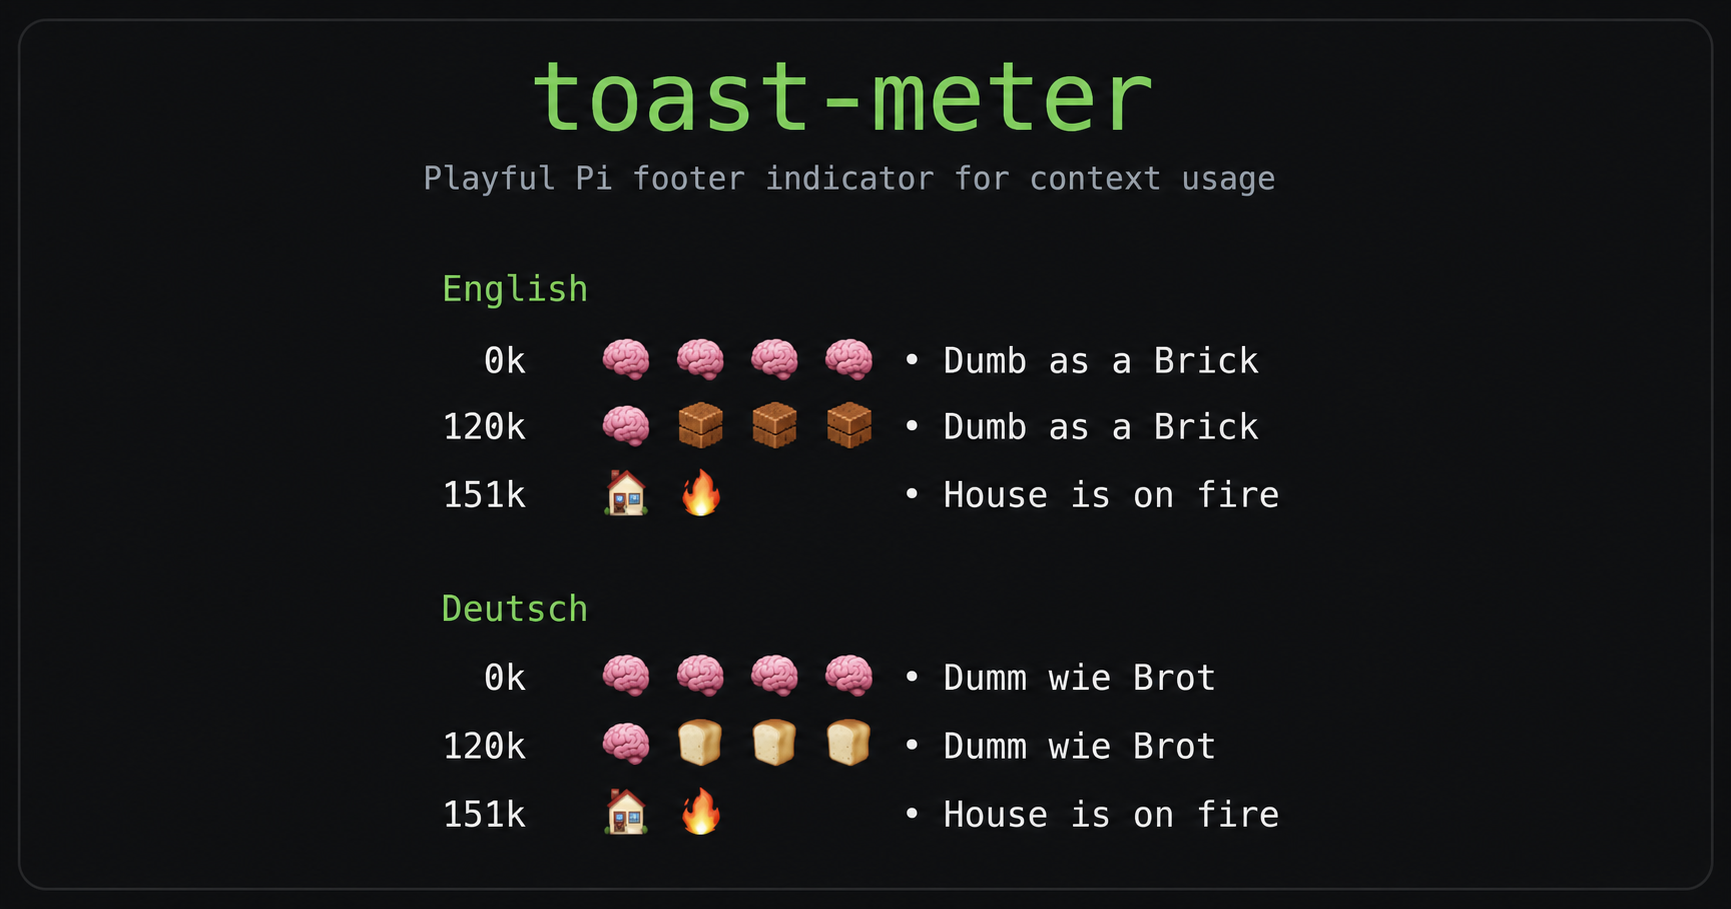
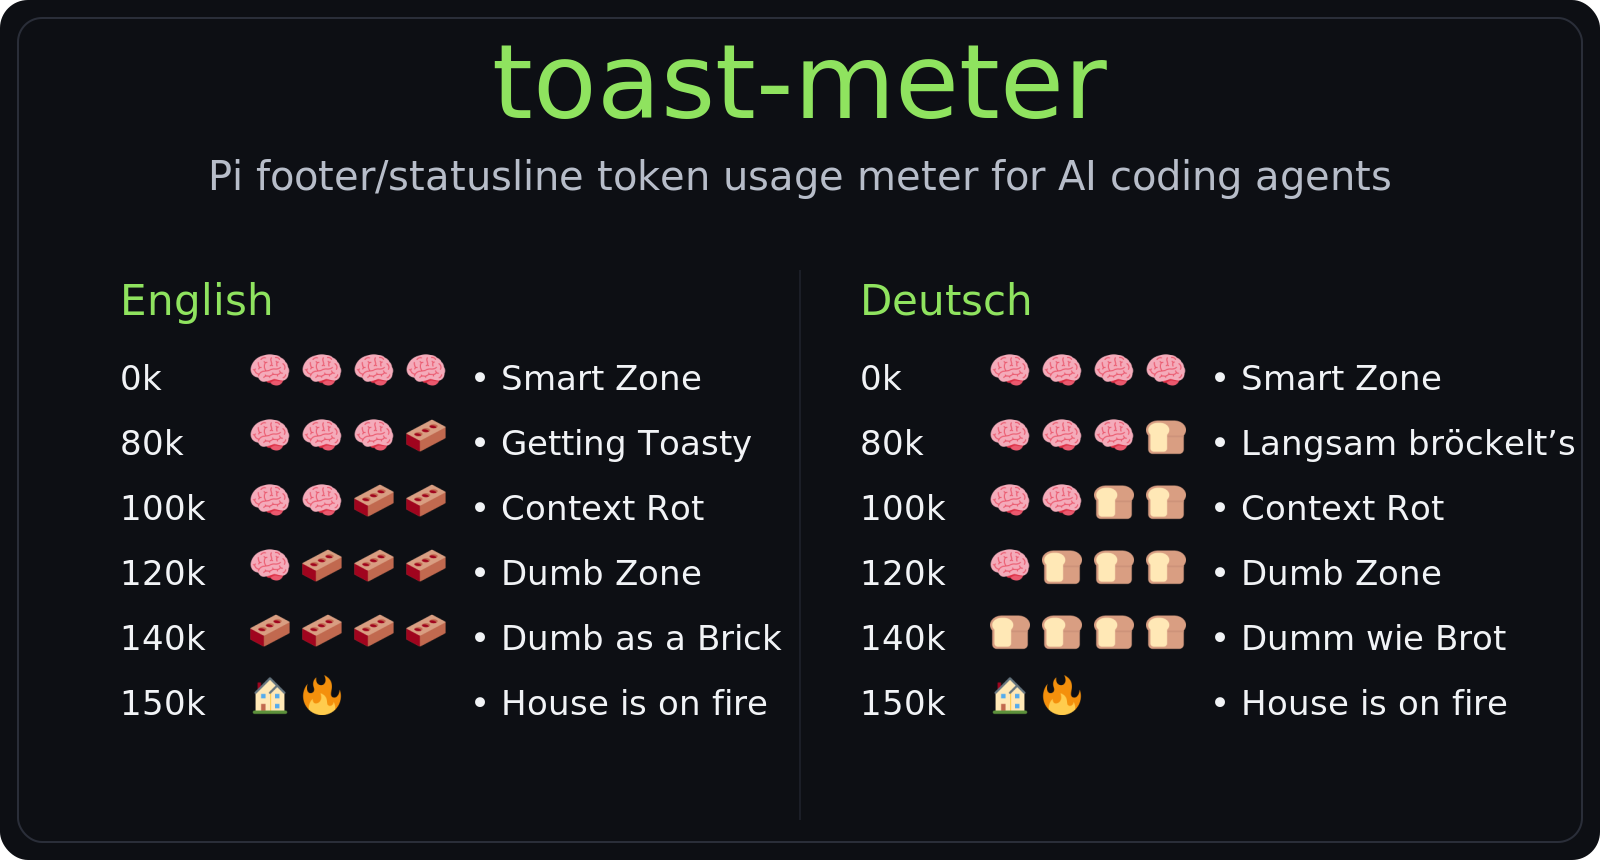
chore(release): 0.2.0

diff --git a/README.md b/README.md
@@ -31,7 +31,7 @@ Git:
 
 ```json
 {
-  "packages": ["git:github.com/ai2ys/toast-meter@v0.1.2"]
+  "packages": ["git:github.com/ai2ys/toast-meter@v0.2.0"]
 }
 ```
 
@@ -39,7 +39,7 @@ npm:
 
 ```json
 {
-  "packages": ["npm:toast-meter@0.1.2"]
+  "packages": ["npm:toast-meter@0.2.0"]
 }
 ```
 
@@ -47,8 +47,8 @@ Or via commands:
 
 ```bash
 pi install /absolute/path/to/toast-meter
-pi install git:github.com/ai2ys/toast-meter@v0.1.2
-pi install npm:toast-meter@0.1.2
+pi install git:github.com/ai2ys/toast-meter@v0.2.0
+pi install npm:toast-meter@0.2.0
 ```
 
 ## Example output
@@ -61,7 +61,7 @@ pi install npm:toast-meter@0.1.2
 100k 🧠🧠🧱🧱 • Context Rot
 120k 🧠🧱🧱🧱 • Dumb Zone
 140k 🧱🧱🧱🧱 • Dumb as a Brick
-151k 🏠🔥 • House is on fire
+150k 🏠🔥 • House is on fire
 ```
 
 ### Deutsch
@@ -72,7 +72,7 @@ pi install npm:toast-meter@0.1.2
 100k 🧠🧠🍞🍞 • Context Rot
 120k 🧠🍞🍞🍞 • Dumb Zone
 140k 🍞🍞🍞🍞 • Dumm wie Brot
-151k 🏠🔥 • House is on fire
+150k 🏠🔥 • House is on fire
 ```
 
 ## Configuration

diff --git a/CHANGELOG.md b/CHANGELOG.md
@@ -1,5 +1,12 @@
 # Changelog
 
+## 0.2.0
+
+- Add staged smart/dumb zone labels for English and German presets
+- Update footer/statusline progression to Smart Zone → Getting Toasty / Langsam bröckelt’s → Context Rot → Dumb Zone → Dumb as a Brick / Dumm wie Brot → House is on fire
+- Improve package description and keywords for Pi/package discovery
+- Fix Claude Code statusline display for 0 token usage
+
 ## 0.1.0
 
 - Initial release